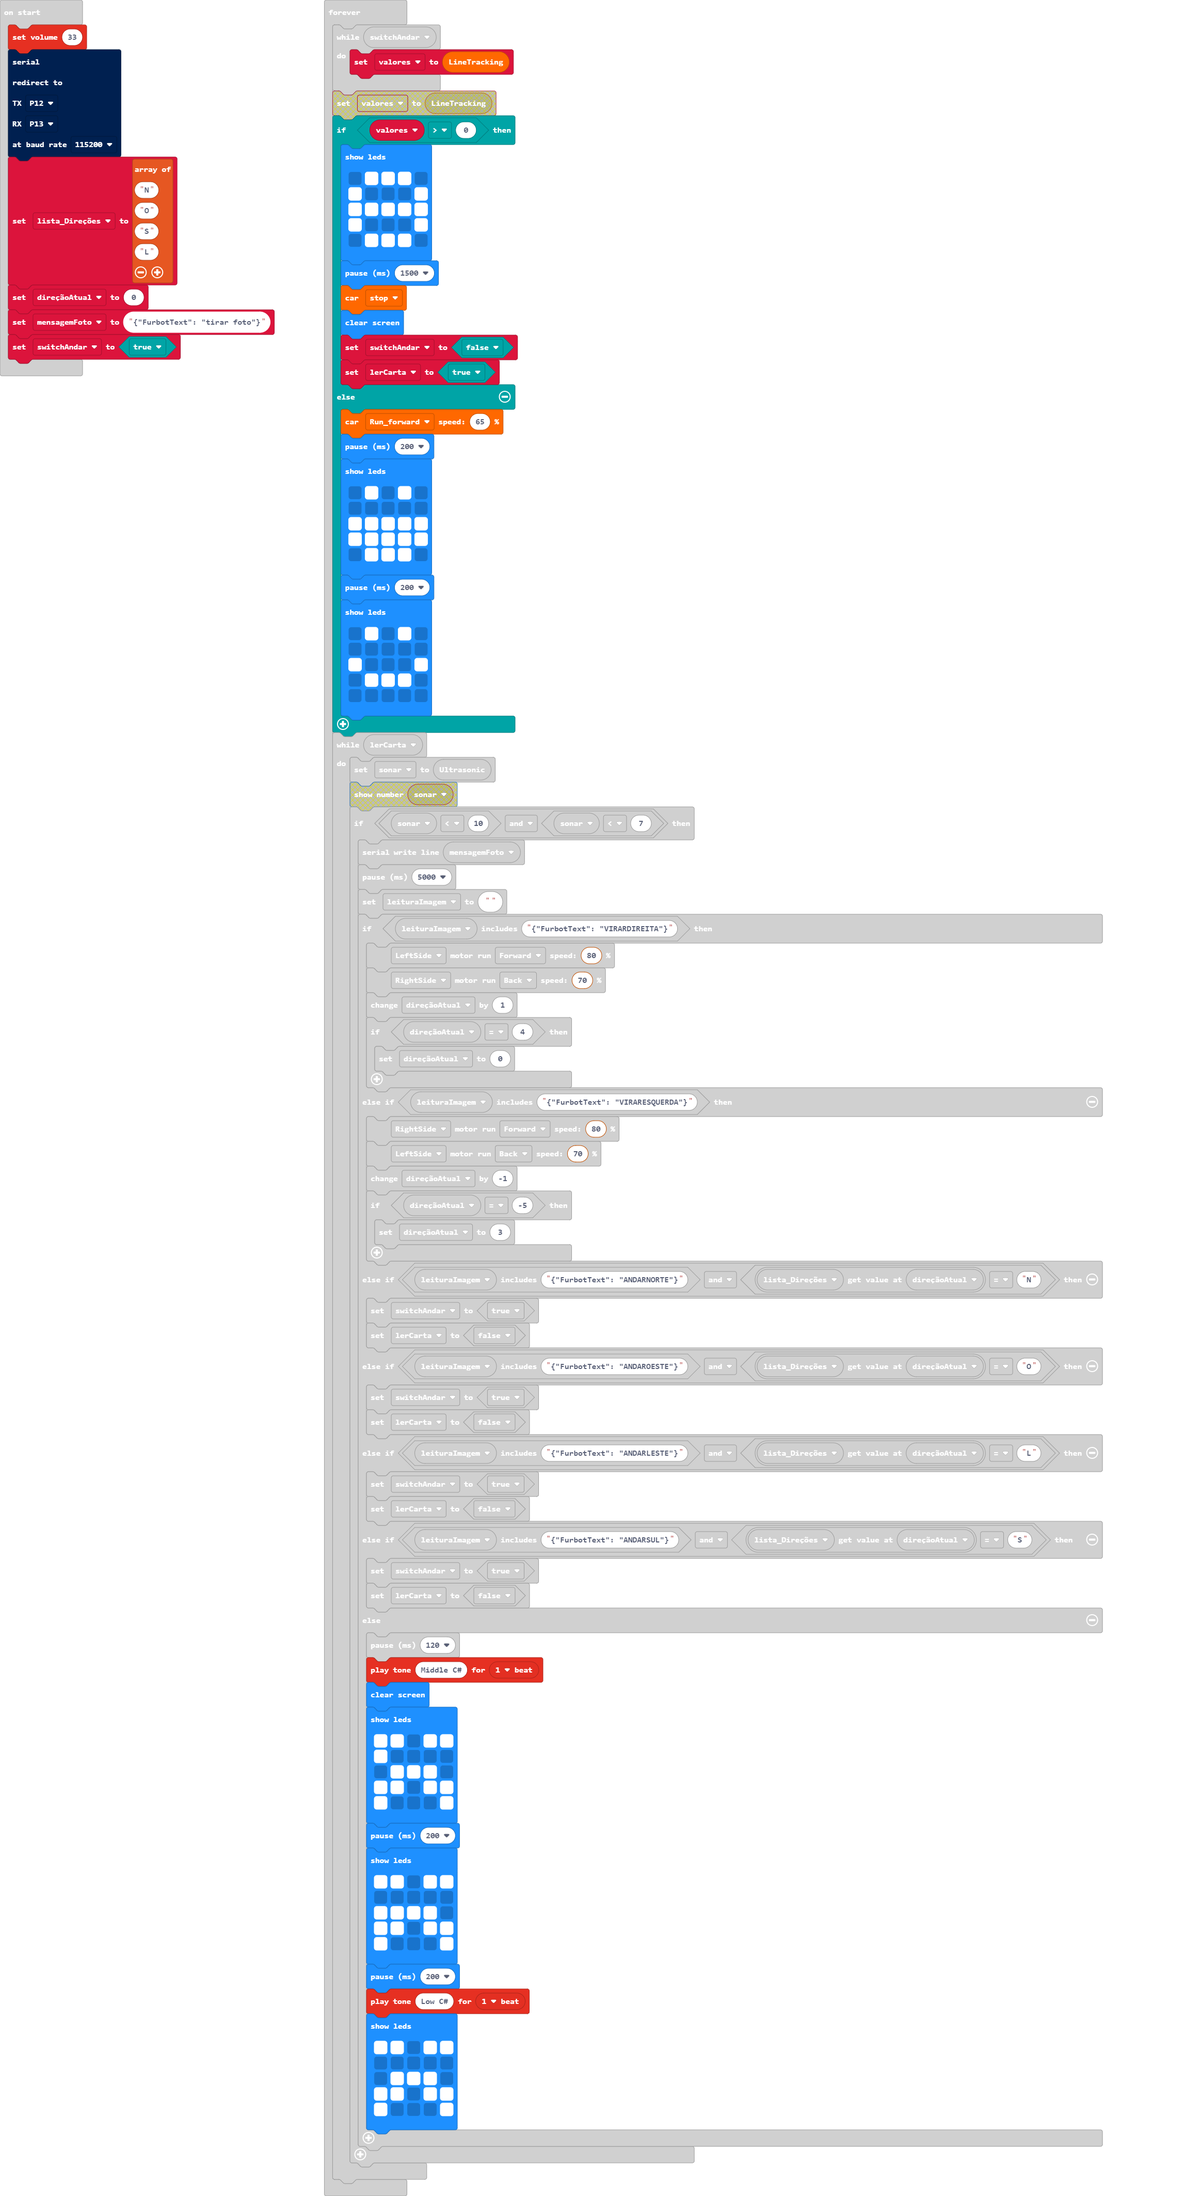
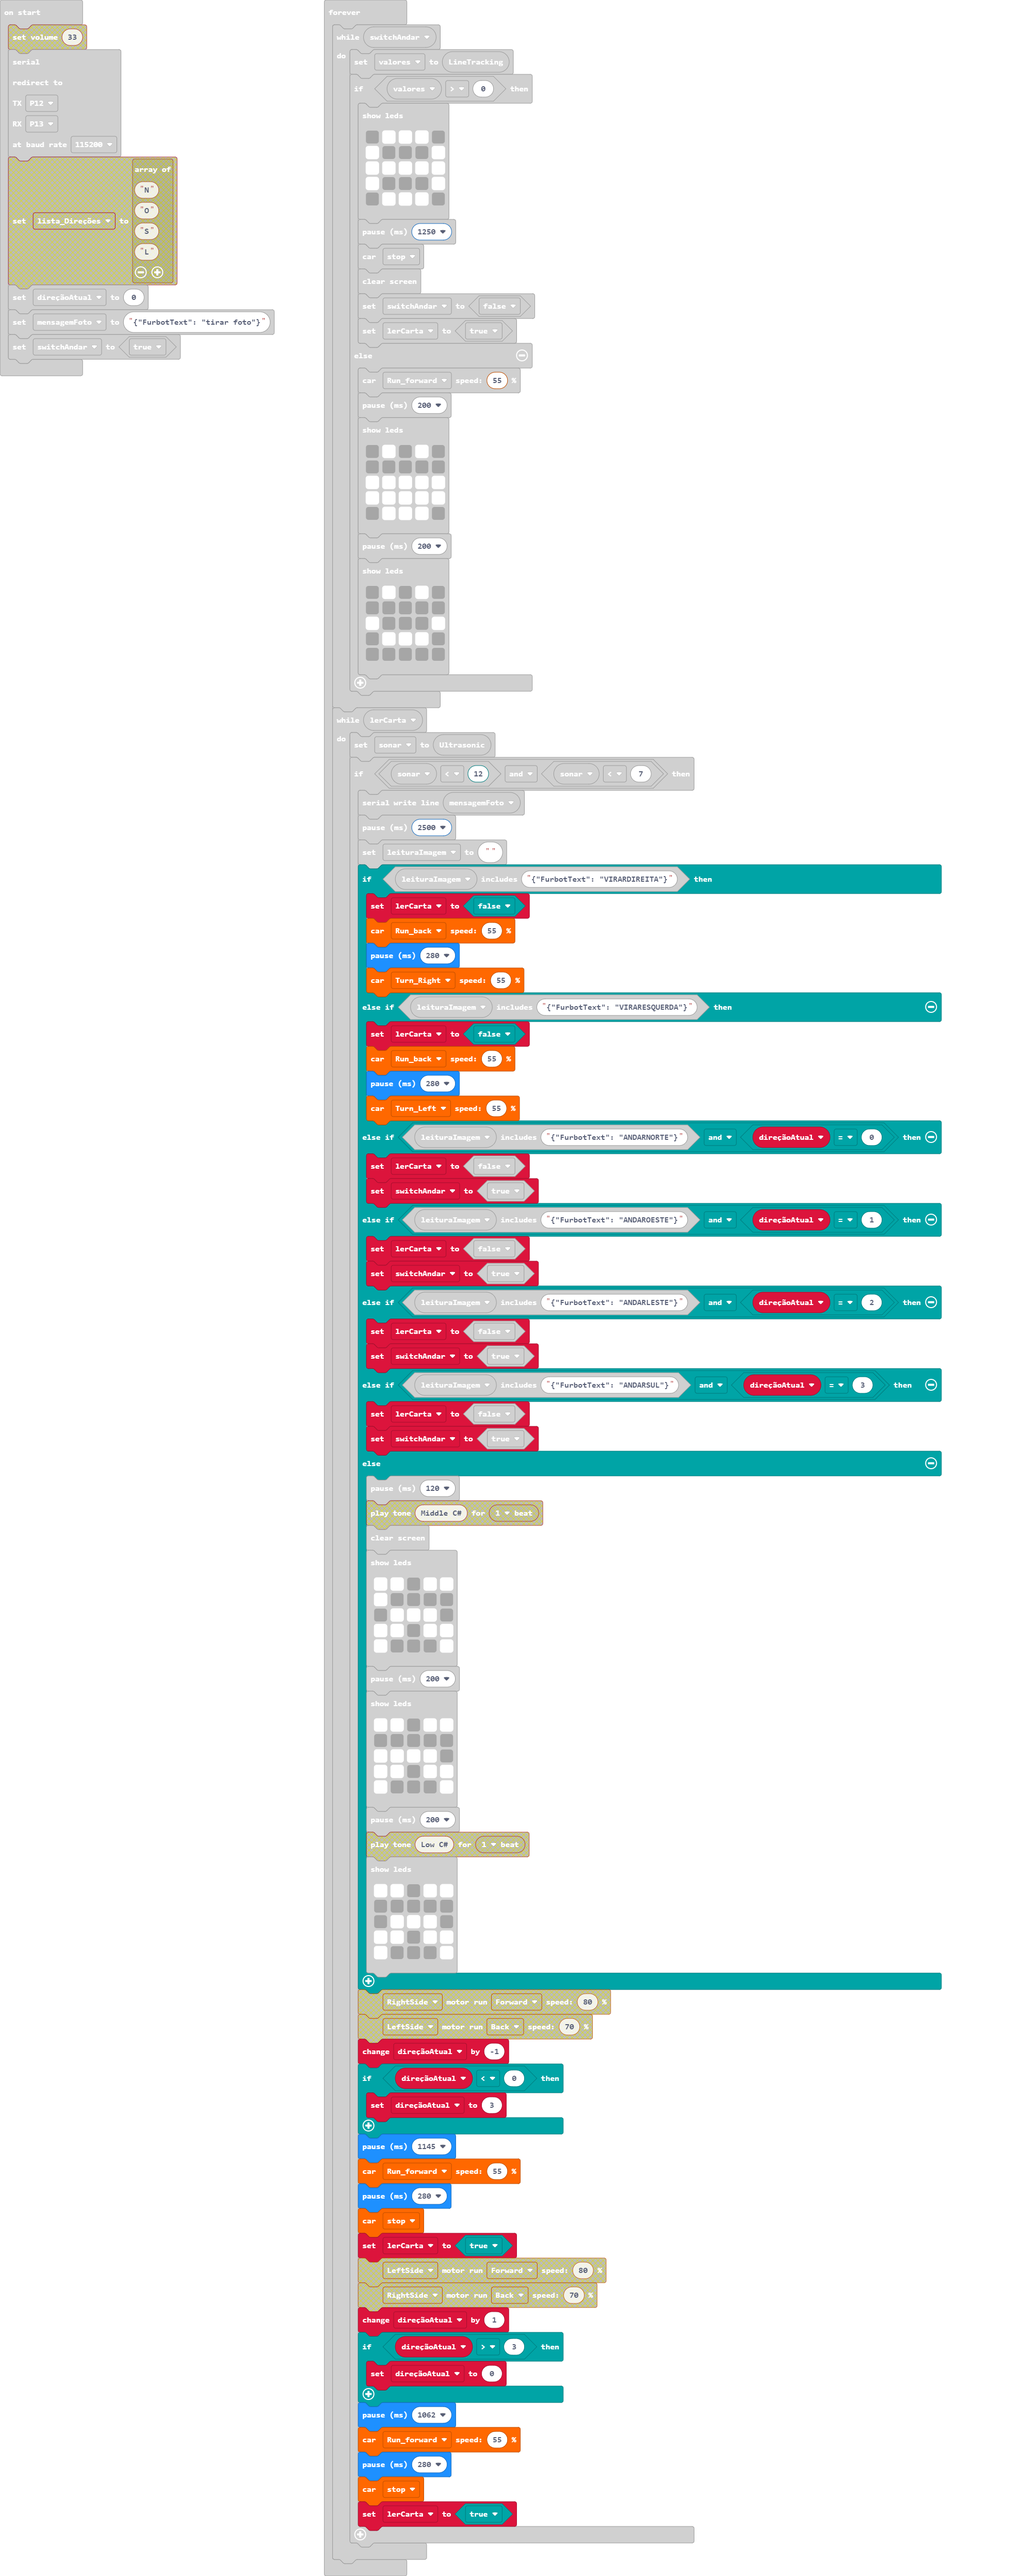
Apliquei as mudanças do #testes, mas com a falta dos valores corretos

Changed region(s): [[0.0, 0.0, 0.9546, 1.0]]

diff --git a/main.ts b/main.ts
@@ -2,18 +2,11 @@ let leituraImagem = ""
 let sonar = 0
 let lerCarta = false
 let valores = 0
-music.setVolume(33)
 serial.redirect(
 SerialPin.P12,
 SerialPin.P13,
 BaudRate.BaudRate115200
 )
-let lista_Direções = [
-"N",
-"O",
-"S",
-"L"
-]
 let direçãoAtual = 0
 let mensagemFoto = "{\"FurbotText\": \"tirar foto\"}"
 let switchAndar = true
@@ -28,13 +21,13 @@ basic.forever(function () {
                 # . . . #
                 . # # # .
                 `)
-            basic.pause(1500)
+            basic.pause(1250)
             turtleBit.state(MotorState.stop)
             basic.clearScreen()
             switchAndar = false
             lerCarta = true
         } else {
-            turtleBit.run(DIR.Run_forward, 65)
+            turtleBit.run(DIR.Run_forward, 55)
             basic.pause(200)
             basic.showLeds(`
                 . # . # .
@@ -55,39 +48,52 @@ basic.forever(function () {
     }
     while (lerCarta) {
         sonar = turtleBit.ultra()
-        if (sonar < 10 && sonar < 7) {
+        if (sonar < 12 && sonar < 7) {
             serial.writeLine(mensagemFoto)
-            basic.pause(5000)
+            basic.pause(2500)
             leituraImagem = ""
             if (leituraImagem.includes("{\"FurbotText\": \"VIRARDIREITA\"}")) {
-                turtleBit.Motor(LR.LeftSide, MD.Forward, 80)
-                turtleBit.Motor(LR.RightSide, MD.Back, 70)
+                lerCarta = false
+                turtleBit.run(DIR.Run_back, 55)
+                basic.pause(280)
+                turtleBit.run(DIR.Turn_Right, 55)
                 direçãoAtual += 1
-                if (direçãoAtual == 4) {
+                if (direçãoAtual > 3) {
                     direçãoAtual = 0
                 }
+                basic.pause(1062)
+                turtleBit.run(DIR.Run_forward, 55)
+                basic.pause(280)
+                turtleBit.state(MotorState.stop)
+                lerCarta = true
             } else if (leituraImagem.includes("{\"FurbotText\": \"VIRARESQUERDA\"}")) {
-                turtleBit.Motor(LR.RightSide, MD.Forward, 80)
-                turtleBit.Motor(LR.LeftSide, MD.Back, 70)
+                lerCarta = false
+                turtleBit.run(DIR.Run_back, 55)
+                basic.pause(280)
+                turtleBit.run(DIR.Turn_Left, 55)
                 direçãoAtual += -1
-                if (direçãoAtual == -5) {
+                if (direçãoAtual < 0) {
                     direçãoAtual = 3
                 }
-            } else if (leituraImagem.includes("{\"FurbotText\": \"ANDARNORTE\"}") && lista_Direções[direçãoAtual] == "N") {
-                switchAndar = true
+                basic.pause(1145)
+                turtleBit.run(DIR.Run_forward, 55)
+                basic.pause(280)
+                turtleBit.state(MotorState.stop)
+                lerCarta = true
+            } else if (leituraImagem.includes("{\"FurbotText\": \"ANDARNORTE\"}") && direçãoAtual == 0) {
                 lerCarta = false
-            } else if (leituraImagem.includes("{\"FurbotText\": \"ANDAROESTE\"}") && lista_Direções[direçãoAtual] == "O") {
                 switchAndar = true
+            } else if (leituraImagem.includes("{\"FurbotText\": \"ANDAROESTE\"}") && direçãoAtual == 1) {
                 lerCarta = false
-            } else if (leituraImagem.includes("{\"FurbotText\": \"ANDARLESTE\"}") && lista_Direções[direçãoAtual] == "L") {
                 switchAndar = true
+            } else if (leituraImagem.includes("{\"FurbotText\": \"ANDARLESTE\"}") && direçãoAtual == 2) {
                 lerCarta = false
-            } else if (leituraImagem.includes("{\"FurbotText\": \"ANDARSUL\"}") && lista_Direções[direçãoAtual] == "S") {
                 switchAndar = true
+            } else if (leituraImagem.includes("{\"FurbotText\": \"ANDARSUL\"}") && direçãoAtual == 3) {
                 lerCarta = false
+                switchAndar = true
             } else {
                 basic.pause(120)
-                music.playTone(277, music.beat(BeatFraction.Whole))
                 basic.clearScreen()
                 basic.showLeds(`
                     # # . # #
@@ -105,7 +111,6 @@ basic.forever(function () {
                     # . . . #
                     `)
                 basic.pause(200)
-                music.playTone(139, music.beat(BeatFraction.Whole))
                 basic.showLeds(`
                     # # . # #
                     . . . . .
